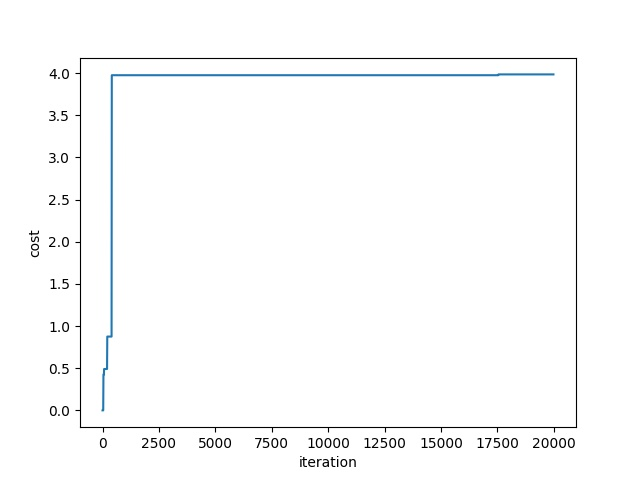
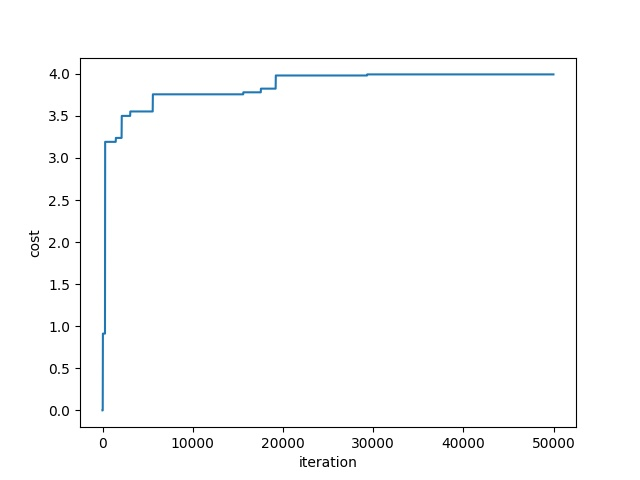
adding readme to maximize function problem

diff --git a/random/maximize_function/maximize-function.py b/random/maximize_function/maximize-function.py
@@ -53,8 +53,7 @@ class MaximizeFuntionSolver:
 
             function.move()
             new_cost = function.cost()
-            deltaCost = new_cost - cost
-            if not (deltaCost > 0 and np.exp(deltaCost/T) > random.random()):
+            if new_cost < cost or np.exp((-(new_cost - cost)) / T) < random.random():
                 function.revert_move()
         return function, steps, costs
 
@@ -71,20 +70,20 @@ class MaximizeFuntionSolver:
 
             function.move()
             new_cost = function.cost()
-            deltaCost = new_cost - cost
-            if not deltaCost > 0:
+            if new_cost < cost:
                 function.revert_move()
 
         return function, steps, costs
 
 
 if __name__ == '__main__':
-    seeds = [[2, 2], [3, 7], [10, 0], [-7, -7], [20, 10], [20, -40]]
+    maxsteps = 50000
+    seeds = [[2, 2], [3, 7], [-7, -7], [0, 100], [20, -40]]
     for [x, y] in seeds:
         solver = MaximizeFuntionSolver(x, y)
 
         start_time = time.time()
-        function, steps, costs = solver.HillClimbing(20000)
+        function, steps, costs = solver.HillClimbing(maxsteps)
         with open('results/HillClimbing/x={0} y={1} log.txt'.format(x, y), 'w') as f:
             f.write("RESULT\n{0}\nCOST: {1}\n{2} seconds\n".format(function, function.cost(), round((time.time() - start_time), 2)))
         plt.cla()
@@ -94,7 +93,7 @@ if __name__ == '__main__':
         plt.savefig('results/HillClimbing/x={0} y={1} log.jpg'.format(x, y))
 
         start_time = time.time()
-        function, steps, costs = solver.SimulatedAnnealing(20000)
+        function, steps, costs = solver.SimulatedAnnealing(maxsteps)
         with open('results/SimulatedAnnealing/x={0} y={1} log.txt'.format(x, y), 'w') as f:
             f.write("RESULT\n{0}\nCOST: {1}\n{2} seconds\n".format(function, function.cost(), round((time.time() - start_time), 2)))
         plt.cla()
@@ -102,5 +101,3 @@ if __name__ == '__main__':
         plt.ylabel('cost')
         plt.xlabel('iteration')
         plt.savefig('results/SimulatedAnnealing/x={0} y={1} log.jpg'.format(x, y))
-
-    print('***')

diff --git a/random/maximize_function/README.md b/random/maximize_function/README.md
@@ -1,0 +1,26 @@
+- #### geração inicial
+é escolhido um valor inicial para [x, y]. Escolheu-se o conjunto de valores a seguir [[2, 2], [3, 7], [-7, -7], [0, 100], [20, -40]]
+
+- #### custo
+é definido como o valor de f(x, y)
+
+- #### vizinhos
+para dado estado x, y, os vizinhos são obtidos adicionando-se uma perturbação normal de média zero e desvio padrão 10
+
+- #### hill climbing
+a cada iteração, apenas pegamos um novo estado vizinho aleatório e se o custo desse estado for maior, atualizamos o estado senao continuamos no mesmo estado
+
+- #### simualted annealing
+muito semelhante ao hill climbing, a cada iteração, apenas pegamos um novo estado vizinho aleatório e se o custo desse estado for maior, atualizamos o estado. Caso contrário, atualizeremos o estado com probabilidade P, definida abaixo.
+
+Probabilidade P = exp((custo novo - custo atual)/temperatura)
+
+A temperatura é definida como 
+
+fraction = step / maxsteps  
+T = max(0.1, min(1, 1 - fraction)) 
+
+onde maxsteps é definido como 20 000 e step é inicializado em 0 e incrementado em uma unidade a cada iteração. Nota-se que definindo a probabilidade relacionada à temperatura, vizinhos distantes nas primeiras iterações do algoritmo podem ser escolhidos mesmo que tenham um custo pior enquanto que conforme o algoritmo avança, ele tende a se aproxima e se mantém perto do mínimo global e não local
+
+- #### seed
+a distribuição das rainhas para dado n é feito com um random com seed de forma que tanto o hill climbing quanto o simulated annealing resolvem o mesmo problema, permitindo fazer uma comparação justa entre os algoritmos
